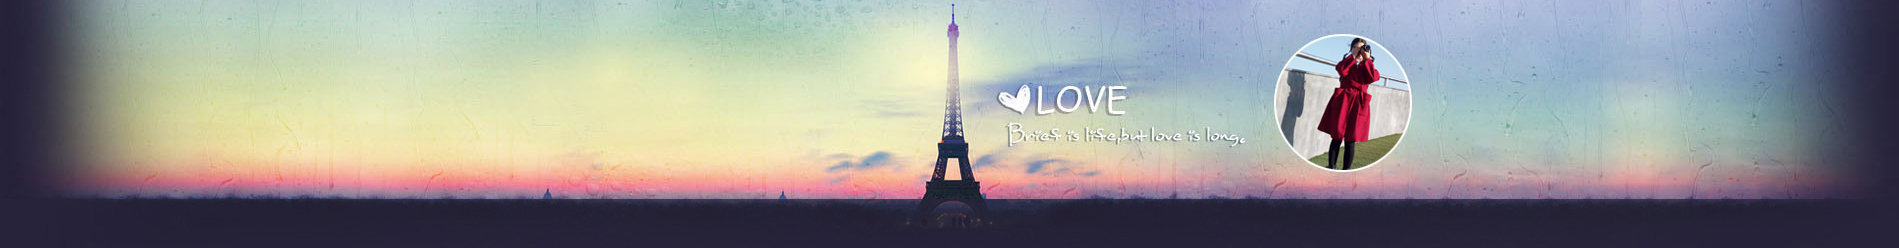
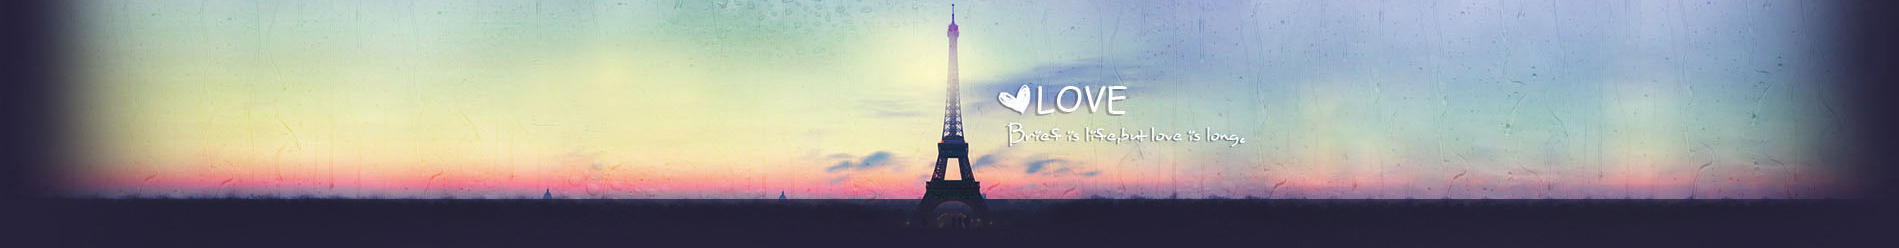
修改头部样式

Changed region(s): [[0.6524, 0.1411, 0.7457, 0.7056]]

diff --git a/source/_posts/TortoiseGit连接gitLab不用每次输入用户名和密码的方法.md b/source/_posts/TortoiseGit连接gitLab不用每次输入用户名和密码的方法.md
@@ -1,10 +1,10 @@
 ---
 title: TortoiseGit连接gitLab不用每次输入用户名和密码的方法
-date: 2018-02-02 17:15:28
-categories:
-- 技术
-- Github
-  tags: Github
+date: 2017-08-08 08:49:56
+categories: 
+  - 技术
+  - Github
+tags: Github
 ---
 
 每次git clone 和push 都要输入用户名和密码。虽然安全，但在本机上每次都输有些麻烦，如何记住用户名和密码呢？

diff --git a/README.md b/README.md
@@ -1,2 +1,2 @@
-# zillah-blog
+# Alysa Blog
 个人博客
